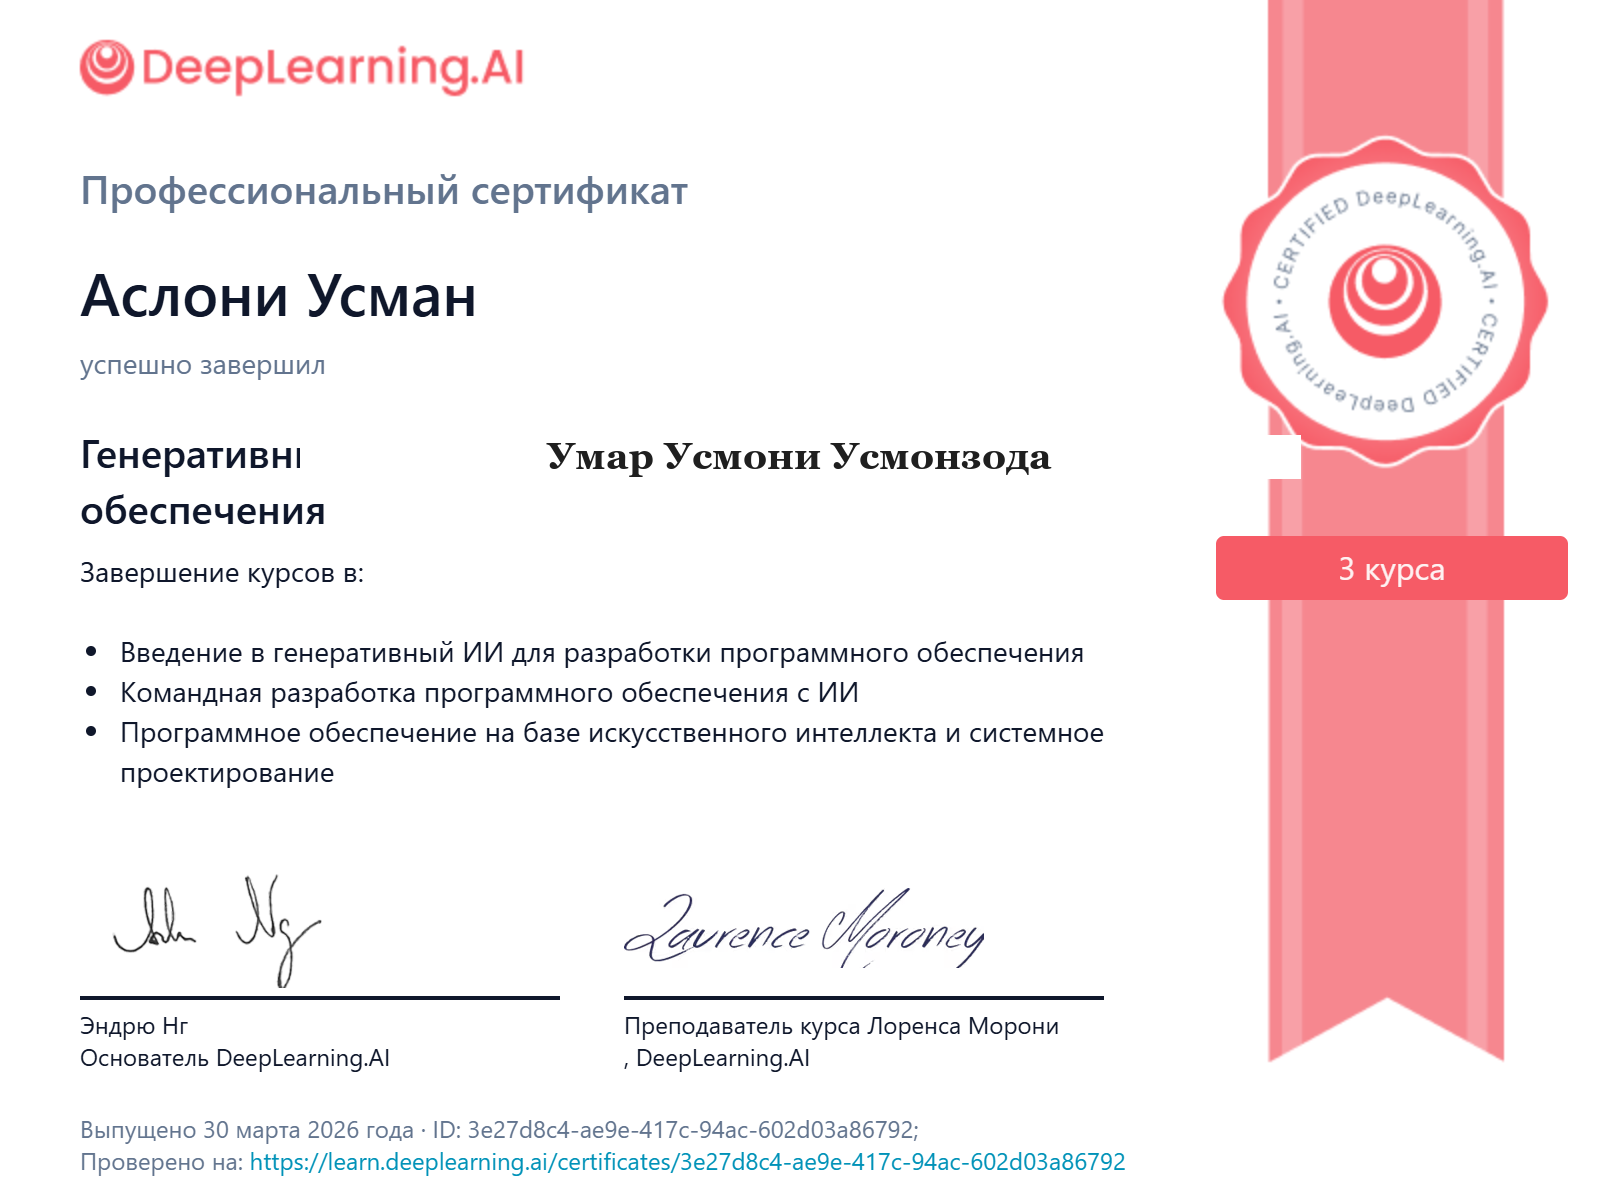
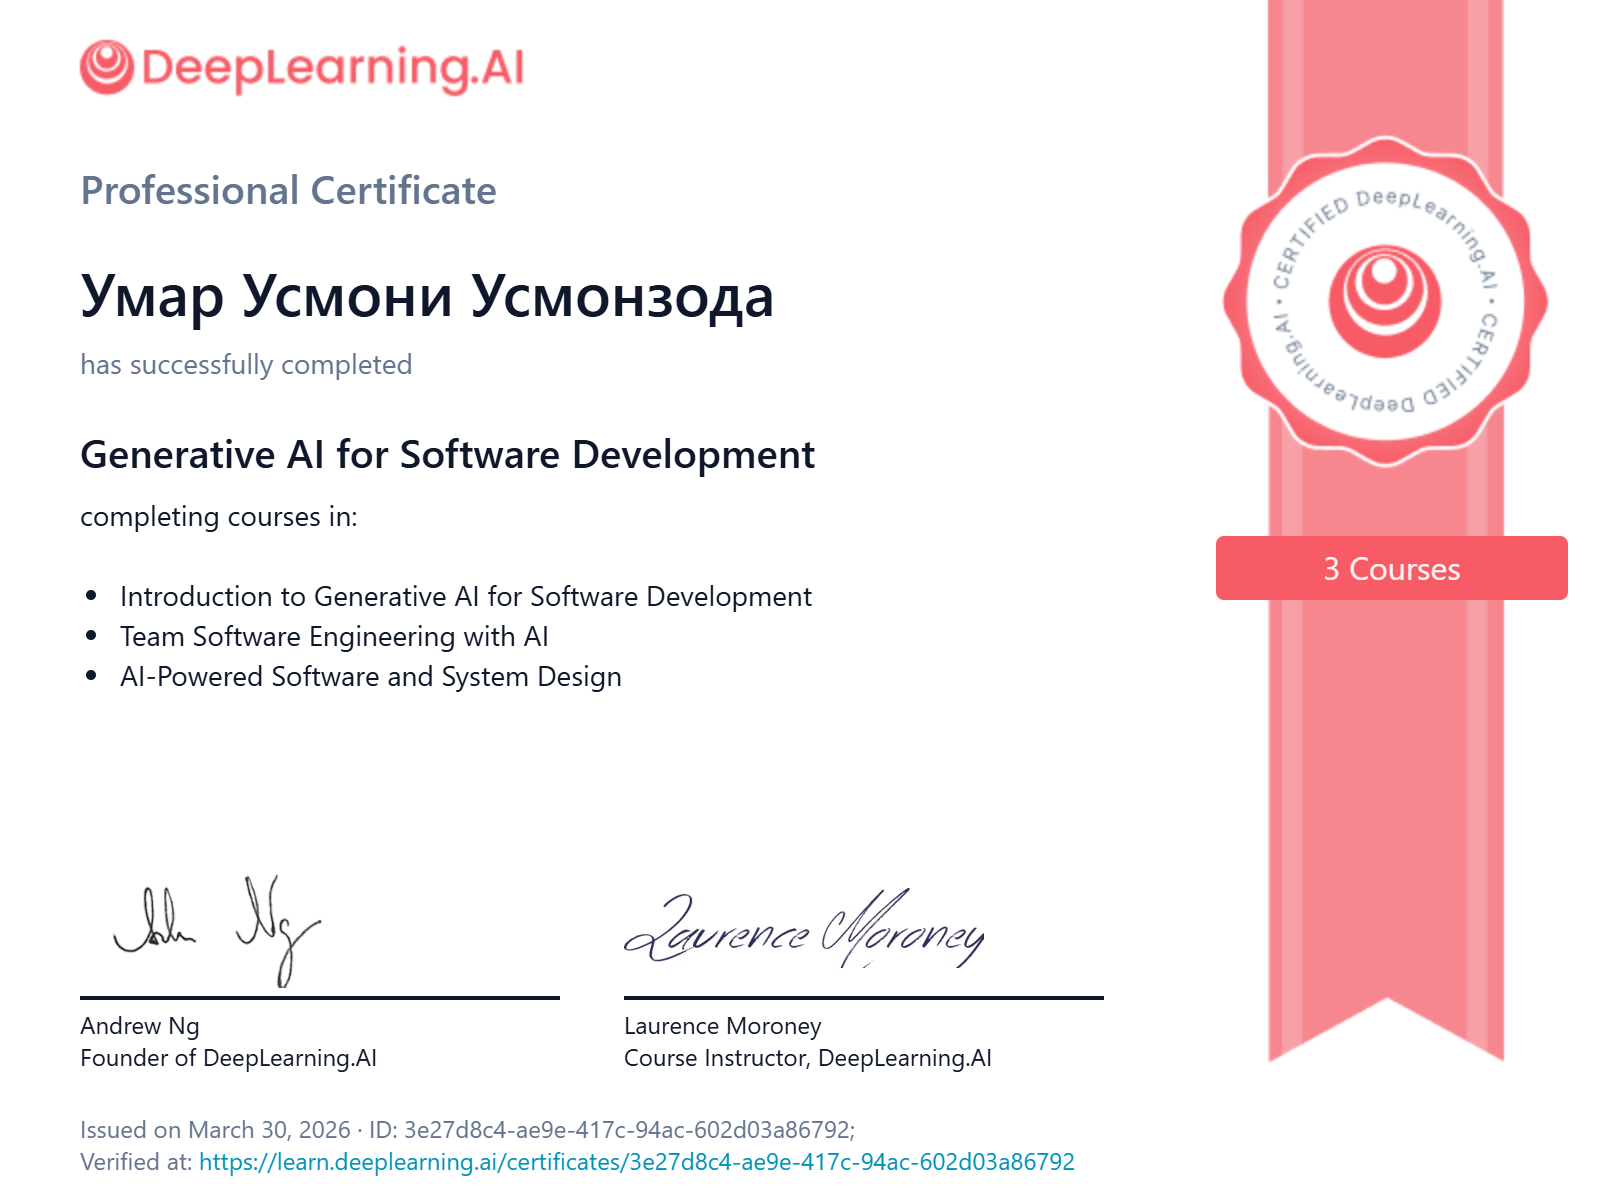
feat: replace certificate assets, rename course to Team Software Engineering, optimize rendering loops, add sound synthesizer and cyber grid

diff --git a/js/particles.js b/js/particles.js
@@ -77,7 +77,17 @@ const initParticles = (() => {
   /* ── Floating Particles ────────────────────────────────── */
   function createFloating(n) {
     const arr = [];
+    const glyphs = '0123456789ABCDEF+x'.split('');
     for (let i = 0; i < n; i++) {
+      const rand = Math.random();
+      let type = 'dot';
+      let char = '';
+      if (rand > 0.85) {
+        type = 'glyph';
+        char = glyphs[Math.floor(Math.random() * glyphs.length)];
+      } else if (rand > 0.7) {
+        type = 'plus';
+      }
       arr.push({
         x:  Math.random() * W,
         y:  Math.random() * H,
@@ -85,6 +95,8 @@ const initParticles = (() => {
         vy: (Math.random() - 0.5) * 0.3,
         r:  CONFIG.floatRadiusMin + Math.random() * (CONFIG.floatRadiusMax - CONFIG.floatRadiusMin),
         a:  0.1 + Math.random() * 0.4,
+        type,
+        char
       });
     }
     return arr;
@@ -183,14 +195,36 @@ const initParticles = (() => {
       warpSpeedFactor += (1 - warpSpeedFactor) * 0.05;
     }
 
+    /* — 0. Background Grid (Cyberpunk Grid Backdrop) — */
+    const mx = mouseOffX + W / 2;
+    const my = mouseOffY + H / 2;
+    ctx.beginPath();
+    const gridSpacing = 80;
+    // Vertical lines
+    const startX = Math.floor(W % gridSpacing) / 2;
+    for (let x = startX; x < W; x += gridSpacing) {
+      ctx.moveTo(x, 0);
+      ctx.lineTo(x, H);
+    }
+    // Horizontal lines
+    const startY = Math.floor(H % gridSpacing) / 2;
+    for (let y = startY; y < H; y += gridSpacing) {
+      ctx.moveTo(0, y);
+      ctx.lineTo(W, y);
+    }
+    const gridGrad = ctx.createRadialGradient(mx, my, 10, mx, my, 300);
+    gridGrad.addColorStop(0, 'rgba(0, 255, 136, 0.12)');
+    gridGrad.addColorStop(1, 'rgba(0, 255, 136, 0.015)');
+    ctx.strokeStyle = gridGrad;
+    ctx.lineWidth = 0.5;
+    ctx.stroke();
+
     /* — 1. Sphere — */
     angleY += CONFIG.rotSpeedY * warpSpeedFactor;
     const totalAngleY = angleY + mouseOffX * CONFIG.parallaxFactor;
     const totalAngleX = mouseOffY * CONFIG.parallaxFactor;
 
     const projected = [];
-    const mx = mouseOffX + W / 2;
-    const my = mouseOffY + H / 2;
     for (let i = 0; i < spherePoints.length; i++) {
       let p = spherePoints[i];
       // Scale to sphere radius
@@ -213,21 +247,41 @@ const initParticles = (() => {
       projected.push(proj);
     }
 
-    // Lines between nearby sphere points
+    // Lines between nearby sphere points (optimized sweep-line & path-batched)
     const maxDist2 = CONFIG.sphereLineMax * CONFIG.sphereLineMax;
-    for (let i = 0; i < projected.length; i++) {
-      for (let j = i + 1; j < projected.length; j++) {
-        const d2 = dist2(projected[i], projected[j]);
+    const sortedProjected = [...projected].sort((a, b) => a.sx - b.sx);
+    const sphereLineBuckets = Array.from({ length: 6 }, () => []);
+
+    for (let i = 0; i < sortedProjected.length; i++) {
+      const pI = sortedProjected[i];
+      for (let j = i + 1; j < sortedProjected.length; j++) {
+        const pJ = sortedProjected[j];
+        const dx = pJ.sx - pI.sx;
+        if (dx >= CONFIG.sphereLineMax) {
+          break; // Sweep-line early out
+        }
+        const dy = pJ.sy - pI.sy;
+        const d2 = dx * dx + dy * dy;
         if (d2 < maxDist2) {
           const alpha = 0.3 * (1 - d2 / maxDist2);
-          ctx.beginPath();
-          ctx.moveTo(projected[i].sx, projected[i].sy);
-          ctx.lineTo(projected[j].sx, projected[j].sy);
-          ctx.strokeStyle = `rgba(0, 255, 136, ${alpha})`;
-          ctx.lineWidth = 0.5;
-          ctx.stroke();
+          const bucketIndex = Math.min(5, Math.floor((alpha / 0.3) * 6));
+          sphereLineBuckets[bucketIndex].push(pI.sx, pI.sy, pJ.sx, pJ.sy);
         }
       }
+    }
+
+    ctx.lineWidth = 0.5;
+    for (let b = 0; b < 6; b++) {
+      const lines = sphereLineBuckets[b];
+      if (lines.length === 0) continue;
+      ctx.beginPath();
+      for (let k = 0; k < lines.length; k += 4) {
+        ctx.moveTo(lines[k], lines[k+1]);
+        ctx.lineTo(lines[k+2], lines[k+3]);
+      }
+      const alpha = ((b + 1) * 0.05).toFixed(2);
+      ctx.strokeStyle = `rgba(0, 255, 136, ${alpha})`;
+      ctx.stroke();
     }
 
     // Sphere dots
@@ -250,28 +304,61 @@ const initParticles = (() => {
       if (p.y < 0) p.y = H;
       if (p.y > H) p.y = 0;
 
-      ctx.beginPath();
-      ctx.arc(p.x, p.y, p.r, 0, Math.PI * 2);
       ctx.fillStyle = `rgba(0, 255, 136, ${p.a})`;
-      ctx.fill();
+      if (p.type === 'glyph') {
+        ctx.font = `${Math.round(p.r * 5 + 6)}px 'JetBrains Mono', monospace`;
+        ctx.fillText(p.char, p.x, p.y);
+      } else if (p.type === 'plus') {
+        const size = p.r * 2 + 1;
+        ctx.strokeStyle = `rgba(0, 255, 136, ${p.a})`;
+        ctx.lineWidth = 0.8;
+        ctx.beginPath();
+        ctx.moveTo(p.x - size, p.y);
+        ctx.lineTo(p.x + size, p.y);
+        ctx.moveTo(p.x, p.y - size);
+        ctx.lineTo(p.x, p.y + size);
+        ctx.stroke();
+      } else {
+        ctx.beginPath();
+        ctx.arc(p.x, p.y, p.r, 0, Math.PI * 2);
+        ctx.fill();
+      }
     }
 
-    // Lines between nearby floating particles
-    for (let i = 0; i < floatingParticles.length; i++) {
-      for (let j = i + 1; j < floatingParticles.length; j++) {
-        const a = floatingParticles[i], b = floatingParticles[j];
-        const dx = a.x - b.x, dy = a.y - b.y;
+    // Lines between nearby floating particles (optimized sweep-line & path-batched)
+    const sortedFloating = [...floatingParticles].sort((a, b) => a.x - b.x);
+    const floatLineBuckets = Array.from({ length: 5 }, () => []);
+
+    for (let i = 0; i < sortedFloating.length; i++) {
+      const pI = sortedFloating[i];
+      for (let j = i + 1; j < sortedFloating.length; j++) {
+        const pJ = sortedFloating[j];
+        const dx = pJ.x - pI.x;
+        if (dx >= CONFIG.floatLineMax) {
+          break; // Sweep-line early out
+        }
+        const dy = pJ.y - pI.y;
         const d2 = dx * dx + dy * dy;
         if (d2 < fMaxDist2) {
           const alpha = 0.15 * (1 - d2 / fMaxDist2);
-          ctx.beginPath();
-          ctx.moveTo(a.x, a.y);
-          ctx.lineTo(b.x, b.y);
-          ctx.strokeStyle = `rgba(0, 255, 136, ${alpha})`;
-          ctx.lineWidth = 0.5;
-          ctx.stroke();
+          const bucketIndex = Math.min(4, Math.floor((alpha / 0.15) * 5));
+          floatLineBuckets[bucketIndex].push(pI.x, pI.y, pJ.x, pJ.y);
         }
       }
+    }
+
+    ctx.lineWidth = 0.5;
+    for (let b = 0; b < 5; b++) {
+      const lines = floatLineBuckets[b];
+      if (lines.length === 0) continue;
+      ctx.beginPath();
+      for (let k = 0; k < lines.length; k += 4) {
+        ctx.moveTo(lines[k], lines[k+1]);
+        ctx.lineTo(lines[k+2], lines[k+3]);
+      }
+      const alpha = ((b + 1) * 0.03).toFixed(2);
+      ctx.strokeStyle = `rgba(0, 255, 136, ${alpha})`;
+      ctx.stroke();
     }
 
     /* — 3. 3D Terrain Wave Grid (Holographic Landscape) — */

diff --git a/js/terminal.js b/js/terminal.js
@@ -12,8 +12,49 @@ document.addEventListener('DOMContentLoaded', () => {
   const terminal = document.querySelector('.terminal-block');
   if (!terminal) return;
 
+  // Web Audio Context Click Synthesizer (GPU-friendly mechanical sound generator)
+  let audioCtx = null;
+  function playClickSound(freqScale = 1.0) {
+    if (!window.terminalSoundActive) return;
+    try {
+      if (!audioCtx) {
+        audioCtx = new (window.AudioContext || window.webkitAudioContext)();
+      }
+      if (audioCtx.state === 'suspended') {
+        audioCtx.resume();
+      }
+
+      const osc = audioCtx.createOscillator();
+      const gain = audioCtx.createGain();
+
+      osc.connect(gain);
+      gain.connect(audioCtx.destination);
+
+      osc.type = Math.random() > 0.5 ? 'triangle' : 'sine';
+      
+      // Randomize pitch slightly to sound like natural keyboard keys
+      const freq = (1300 + Math.random() * 500) / freqScale;
+      osc.frequency.setValueAtTime(freq, audioCtx.currentTime);
+
+      gain.gain.setValueAtTime(freqScale > 1.0 ? 0.025 : 0.04, audioCtx.currentTime);
+      gain.gain.exponentialRampToValueAtTime(0.0001, audioCtx.currentTime + 0.015);
+
+      osc.start(audioCtx.currentTime);
+      osc.stop(audioCtx.currentTime + 0.015);
+    } catch (e) {
+      console.warn("Audio Context error", e);
+    }
+  }
+
+  // Expose playClickSound globally for hover events on the Dock
+  window.playClickSound = playClickSound;
+  window.terminalSoundActive = true;
+
   // Build the interactive DOM structure inside the terminal block
   terminal.innerHTML = `
+    <button class="terminal-sound-btn" title="Toggle sound effects" aria-label="Toggle sound effects" style="position: absolute; top: 12px; right: 12px; background: rgba(5,5,5,0.6); border: 1px solid rgba(0,255,136,0.5); border-radius: 4px; color: var(--accent-primary); cursor: pointer; padding: 4px 8px; font-family: var(--font-mono); font-size: 10px; display: flex; align-items: center; gap: 4px; z-index: 20; transition: all 0.3s ease; user-select: none;">
+      <span>🔊 Sound On</span>
+    </button>
     <div class="terminal-output">
       <div class="terminal-line">umar@portfolio:~$ welcome</div>
       <div class="terminal-line text-muted">Type <span class="text-accent">help</span> for a list of available commands.</div>
@@ -29,6 +70,30 @@ document.addEventListener('DOMContentLoaded', () => {
   const outputContainer = terminal.querySelector('.terminal-output');
   const terminalInput = terminal.querySelector('.terminal-input');
   const matrixCanvas = terminal.querySelector('.matrix-canvas');
+  const soundBtn = terminal.querySelector('.terminal-sound-btn');
+
+  soundBtn.addEventListener('click', (e) => {
+    e.stopPropagation();
+    window.terminalSoundActive = !window.terminalSoundActive;
+    soundBtn.querySelector('span').textContent = window.terminalSoundActive ? '🔊 Sound On' : '🔇 Sound Off';
+    soundBtn.style.borderColor = window.terminalSoundActive ? 'rgba(0,255,136,0.5)' : 'rgba(255,255,255,0.15)';
+    soundBtn.style.color = window.terminalSoundActive ? 'var(--accent-primary)' : 'var(--text-secondary)';
+    if (window.terminalSoundActive) {
+      playClickSound();
+    }
+    terminalInput.focus();
+  });
+
+  soundBtn.addEventListener('mouseenter', () => {
+    soundBtn.style.background = 'rgba(0,255,136,0.08)';
+    if (window.terminalSoundActive) {
+      soundBtn.style.boxShadow = '0 0 8px rgba(0,255,136,0.3)';
+    }
+  });
+  soundBtn.addEventListener('mouseleave', () => {
+    soundBtn.style.background = 'rgba(5,5,5,0.6)';
+    soundBtn.style.boxShadow = 'none';
+  });
 
   const commandHistory = [];
   let historyIndex = -1;
@@ -47,6 +112,8 @@ document.addEventListener('DOMContentLoaded', () => {
 
   // Handle keys for execute & history cycling
   terminalInput.addEventListener('keydown', (e) => {
+    playClickSound();
+
     if (e.key === 'Enter') {
       const rawValue = terminalInput.value;
       const commandText = rawValue.trim();

diff --git a/index.html b/index.html
@@ -431,7 +431,7 @@
             <p>A comprehensive DeepLearning.AI professional certificate covering 3 courses on applying generative AI in modern software development.</p>
             <ul class="cert-course-list">
               <li>Introduction to Generative AI for Software Development</li>
-              <li>Team Software Development with AI</li>
+              <li>Team Software Engineering with AI</li>
               <li>AI-Powered Software and System Design</li>
             </ul>
             <div class="cert-meta">
@@ -471,15 +471,15 @@
           </div>
           <div class="cert-card-img-wrap">
             <img src="assets/certificates/cert-team-ai.png"
-                 alt="Course Certificate — Team Software Development with AI"
+                 alt="Course Certificate — Team Software Engineering with AI"
                  loading="lazy"
                  decoding="async"
                  width="400"
                  height="300" />
           </div>
           <div class="cert-card-body">
-            <h4>Team Software Development with AI</h4>
-            <p>Collaborative software development principles using artificial intelligence tools and pair-programming agents.</p>
+            <h4>Team Software Engineering with AI</h4>
+            <p>Collaborative software engineering principles using artificial intelligence tools and pair-programming agents.</p>
             <div class="cert-meta">
               <span class="cert-meta-item">📅 March 23, 2026</span>
             </div>

diff --git a/js/cursor.js b/js/cursor.js
@@ -78,15 +78,16 @@ const initCursor = (() => {
       ctx.fill();
     }
 
-    // Main cursor dot with glow
-    ctx.save();
-    ctx.shadowColor = `rgba(${COLOR}, 0.8)`;
-    ctx.shadowBlur = GLOW_BLUR;
+    // Main cursor dot with gradient-based glow (GPU-friendly, no shadowBlur)
+    const glowGrad = ctx.createRadialGradient(mx, my, 2, mx, my, CURSOR_R + GLOW_BLUR);
+    glowGrad.addColorStop(0, `rgba(${COLOR}, 0.9)`);
+    glowGrad.addColorStop(CURSOR_R / (CURSOR_R + GLOW_BLUR), `rgba(${COLOR}, 0.6)`);
+    glowGrad.addColorStop(1, `rgba(${COLOR}, 0)`);
+
     ctx.beginPath();
-    ctx.arc(mx, my, CURSOR_R, 0, Math.PI * 2);
-    ctx.fillStyle = `rgba(${COLOR}, 0.9)`;
+    ctx.arc(mx, my, CURSOR_R + GLOW_BLUR, 0, Math.PI * 2);
+    ctx.fillStyle = glowGrad;
     ctx.fill();
-    ctx.restore();
 
     rafId = requestAnimationFrame(loop);
   }

diff --git a/js/main.js b/js/main.js
@@ -279,6 +279,15 @@ document.addEventListener('DOMContentLoaded', () => {
      ══════════════════════════════════════════════════════ */
   const dock = document.querySelector('.dock');
   if (dock) {
+    // Add hover sounds to dock items
+    dock.querySelectorAll('.dock > *').forEach((el) => {
+      el.addEventListener('mouseenter', () => {
+        if (typeof window.playClickSound === 'function') {
+          window.playClickSound(1.6); // softer, lower pitch tick
+        }
+      });
+    });
+
     dock.addEventListener('pointermove', (e) => {
       dock.querySelectorAll('.dock > *').forEach((el) => {
         const r = el.getBoundingClientRect();
